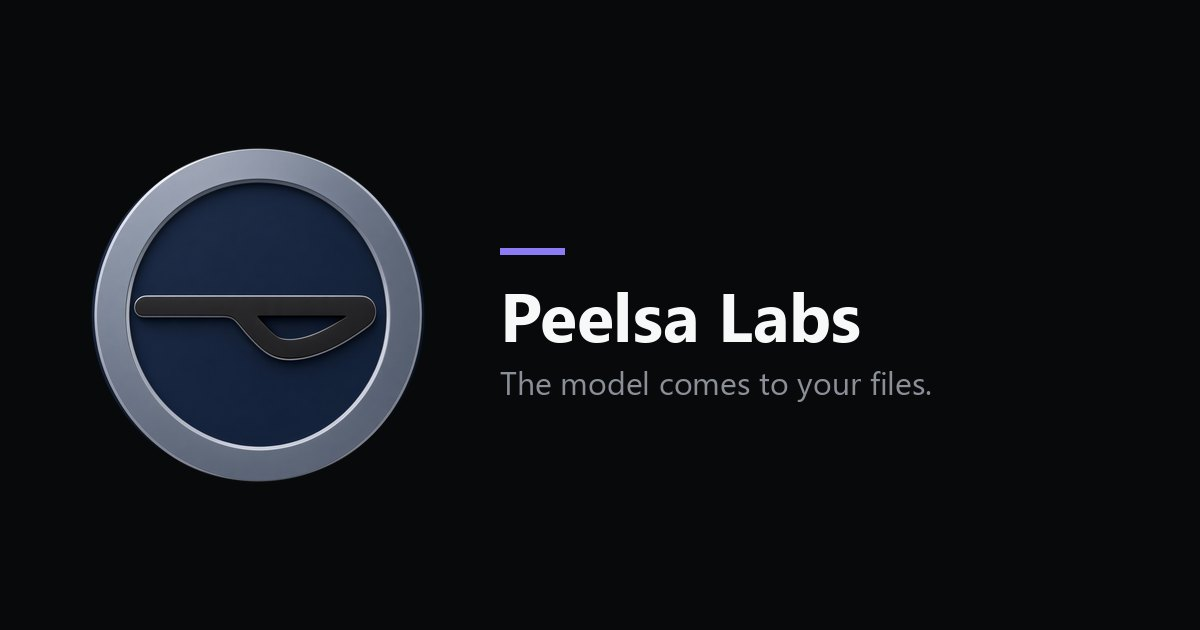
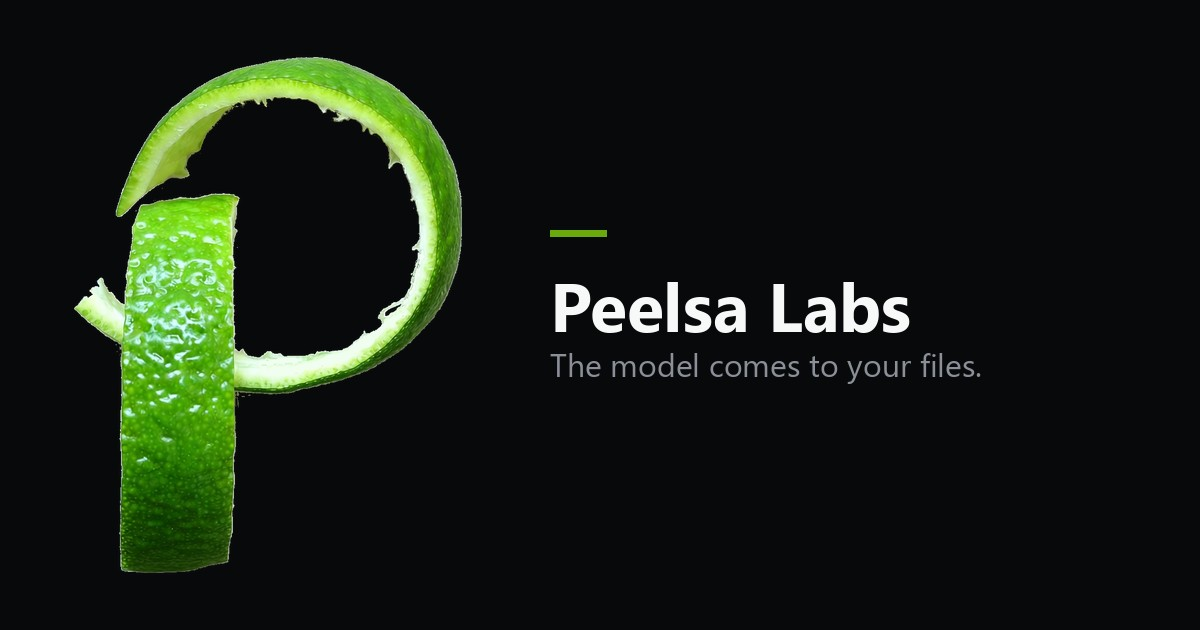
Ship the lime peel mark and lime accent.

Changed region(s): [[0.0617, 0.0905, 0.8325, 0.9349]]

diff --git a/css/styles.css b/css/styles.css
@@ -38,11 +38,12 @@
   --text: #f7f8f8;
   --muted: #8a8f98;
   --muted-2: #6b7079;
-  --accent: #8b7cf6;
-  --accent-hover: #9b8ef8;
-  --accent-soft: rgba(139, 124, 246, 0.15);
-  --accent-ring: rgba(139, 124, 246, 0.4);
-  --success: #3dd68c;
+  --accent: #6AAA0C;
+  --accent-hover: #7CC214;
+  --accent-soft: rgba(106, 170, 12, 0.16);
+  --accent-ring: rgba(198, 242, 90, 0.45);
+  --accent-ink: #102004;
+  --success: #C6F25A;
   --radius: 8px;
   --radius-lg: 12px;
   --shell: 1120px;
@@ -111,7 +112,7 @@ ol {
   top: 0;
   z-index: 200;
   background: var(--accent);
-  color: #fff;
+  color: var(--accent-ink);
   padding: 8px 14px;
   border-radius: var(--radius);
 }
@@ -123,7 +124,7 @@ ol {
 
 /* ——— Preview banner ——— */
 .preview-banner {
-  background: linear-gradient(90deg, rgba(139, 124, 246, 0.18), rgba(139, 124, 246, 0.06));
+  background: linear-gradient(90deg, rgba(106, 170, 12, 0.18), rgba(106, 170, 12, 0.06));
   border-bottom: 1px solid var(--border);
   font-size: 12px;
   color: var(--muted);
@@ -166,8 +167,8 @@ ol {
 }
 
 .logo-mark {
-  width: 28px;
-  height: 28px;
+  width: 40px;
+  height: 40px;
   object-fit: contain;
   display: block;
   flex-shrink: 0;
@@ -240,8 +241,8 @@ ol {
 
 .btn-primary {
   background: var(--accent);
-  color: #fff;
-  box-shadow: 0 0 0 1px var(--accent-ring), 0 8px 24px rgba(139, 124, 246, 0.2);
+  color: var(--accent-ink);
+  box-shadow: 0 0 0 1px var(--accent-ring), 0 8px 24px rgba(106, 170, 12, 0.2);
 }
 
 .btn-primary:hover {
@@ -302,7 +303,7 @@ ol {
   position: absolute;
   inset: -20% 10% auto;
   height: 420px;
-  background: radial-gradient(ellipse at center, rgba(139, 124, 246, 0.16), transparent 65%);
+  background: radial-gradient(ellipse at center, rgba(106, 170, 12, 0.16), transparent 65%);
   pointer-events: none;
 }
 
@@ -321,7 +322,7 @@ ol {
   font-weight: 500;
   color: var(--accent);
   background: var(--accent-soft);
-  border: 1px solid rgba(139, 124, 246, 0.25);
+  border: 1px solid rgba(106, 170, 12, 0.25);
   padding: 5px 12px;
   border-radius: 100px;
   margin-bottom: 28px;
@@ -532,7 +533,7 @@ ol {
   text-transform: uppercase;
   color: var(--accent);
   background: var(--accent-soft);
-  border: 1px solid rgba(139, 124, 246, 0.25);
+  border: 1px solid rgba(106, 170, 12, 0.25);
   padding: 3px 8px;
   border-radius: 100px;
   margin-bottom: 14px;
@@ -650,7 +651,7 @@ tr:last-child td {
   border: 1px solid var(--border);
   border-radius: var(--radius-lg);
   background:
-    radial-gradient(ellipse at right top, rgba(139, 124, 246, 0.14), transparent 55%),
+    radial-gradient(ellipse at right top, rgba(106, 170, 12, 0.14), transparent 55%),
     var(--surface);
 }
 
@@ -796,7 +797,7 @@ tr:last-child td {
   text-transform: uppercase;
   color: var(--accent);
   background: var(--accent-soft);
-  border: 1px solid rgba(139, 124, 246, 0.25);
+  border: 1px solid rgba(106, 170, 12, 0.25);
   padding: 4px 10px;
   border-radius: 100px;
 }
@@ -896,8 +897,8 @@ tr:last-child td {
 }
 
 .footer-brand .logo-mark {
-  width: 24px;
-  height: 24px;
+  width: 32px;
+  height: 32px;
 }
 
 .hw-grid {
@@ -1195,7 +1196,7 @@ main {
 .callout-accent {
   margin: 24px 0 0;
   padding: 16px 18px;
-  border: 1px solid rgba(139, 124, 246, 0.3);
+  border: 1px solid rgba(106, 170, 12, 0.3);
   border-radius: var(--radius);
   background: var(--accent-soft);
   color: var(--text);
@@ -1243,7 +1244,7 @@ main {
 }
 
 .door-card:hover {
-  border-color: rgba(139, 124, 246, 0.35);
+  border-color: rgba(106, 170, 12, 0.35);
   background: var(--surface-hover);
 }
 
@@ -1473,7 +1474,7 @@ main {
   border: 1px solid var(--border);
   border-radius: var(--radius-lg);
   background:
-    radial-gradient(ellipse at 50% 0%, rgba(139, 124, 246, 0.12), transparent 55%),
+    radial-gradient(ellipse at 50% 0%, rgba(106, 170, 12, 0.12), transparent 55%),
     var(--surface);
   padding: 36px 28px;
   text-align: center;

diff --git a/security.html b/security.html
@@ -34,7 +34,7 @@
     <div class="shell">
       <nav class="nav" aria-label="Primary">
         <a class="logo" href="index.html">
-          <img class="logo-mark" src="img/peelsa.png?v=seo" alt="" width="28" height="28" />
+          <img class="logo-mark" src="img/peelsa.png?v=lime" alt="" width="40" height="40" />
           <span data-brand>Peelsa Labs</span>
         </a>
         <button class="nav-toggle" type="button" aria-label="Open menu" aria-expanded="false"><span></span><span></span><span></span></button>
@@ -119,7 +119,7 @@
       <div class="footer-grid">
         <div>
           <div class="footer-brand">
-            <img class="logo-mark" src="img/peelsa.png?v=seo" alt="" width="24" height="24" />
+            <img class="logo-mark" src="img/peelsa.png?v=lime" alt="" width="32" height="32" />
             <span data-brand>Peelsa Labs</span>
           </div>
           <p class="footer-desc">On-prem inference. Walls at retrieval. Logs you can keep.</p>

diff --git a/how-it-works.html b/how-it-works.html
@@ -35,7 +35,7 @@
     <div class="shell">
       <nav class="nav" aria-label="Primary">
         <a class="logo" href="index.html">
-          <img class="logo-mark" src="img/peelsa.png?v=seo" alt="" width="28" height="28" />
+          <img class="logo-mark" src="img/peelsa.png?v=lime" alt="" width="40" height="40" />
           <span data-brand>Peelsa Labs</span>
         </a>
         <button class="nav-toggle" type="button" aria-label="Open menu" aria-expanded="false"><span></span><span></span><span></span></button>
@@ -139,7 +139,7 @@
       <div class="footer-grid">
         <div>
           <div class="footer-brand">
-            <img class="logo-mark" src="img/peelsa.png?v=seo" alt="" width="24" height="24" />
+            <img class="logo-mark" src="img/peelsa.png?v=lime" alt="" width="32" height="32" />
             <span data-brand>Peelsa Labs</span>
           </div>
           <p class="footer-desc">One stack. Two doors. Files never leave the building.</p>

diff --git a/hardware.html b/hardware.html
@@ -34,7 +34,7 @@
     <div class="shell">
       <nav class="nav" aria-label="Primary">
         <a class="logo" href="index.html">
-          <img class="logo-mark" src="img/peelsa.png?v=seo" alt="" width="28" height="28" />
+          <img class="logo-mark" src="img/peelsa.png?v=lime" alt="" width="40" height="40" />
           <span data-brand>Peelsa Labs</span>
         </a>
         <button class="nav-toggle" type="button" aria-label="Open menu" aria-expanded="false"><span></span><span></span><span></span></button>
@@ -139,7 +139,7 @@
       <div class="footer-grid">
         <div>
           <div class="footer-brand">
-            <img class="logo-mark" src="img/peelsa.png?v=seo" alt="" width="24" height="24" />
+            <img class="logo-mark" src="img/peelsa.png?v=lime" alt="" width="32" height="32" />
             <span data-brand>Peelsa Labs</span>
           </div>
           <p class="footer-desc">Leased on-prem appliance. We maintain. You use.</p>

diff --git a/pricing.html b/pricing.html
@@ -34,7 +34,7 @@
     <div class="shell">
       <nav class="nav" aria-label="Primary">
         <a class="logo" href="index.html">
-          <img class="logo-mark" src="img/peelsa.png?v=seo" alt="" width="28" height="28" />
+          <img class="logo-mark" src="img/peelsa.png?v=lime" alt="" width="40" height="40" />
           <span data-brand>Peelsa Labs</span>
         </a>
         <button class="nav-toggle" type="button" aria-label="Open menu" aria-expanded="false"><span></span><span></span><span></span></button>
@@ -136,7 +136,7 @@
       <div class="footer-grid">
         <div>
           <div class="footer-brand">
-            <img class="logo-mark" src="img/peelsa.png?v=seo" alt="" width="24" height="24" />
+            <img class="logo-mark" src="img/peelsa.png?v=lime" alt="" width="32" height="32" />
             <span data-brand>Peelsa Labs</span>
           </div>
           <p class="footer-desc">Lease + per-seat. OpEx for plants and firms.</p>

diff --git a/plants.html b/plants.html
@@ -35,7 +35,7 @@
     <div class="shell">
       <nav class="nav" aria-label="Primary">
         <a class="logo" href="index.html">
-          <img class="logo-mark" src="img/peelsa.png?v=seo" alt="" width="28" height="28" />
+          <img class="logo-mark" src="img/peelsa.png?v=lime" alt="" width="40" height="40" />
           <span data-brand>Peelsa Labs</span>
         </a>
         <button class="nav-toggle" type="button" aria-label="Open menu" aria-expanded="false">
@@ -195,7 +195,7 @@
       <div class="footer-grid">
         <div>
           <div class="footer-brand">
-            <img class="logo-mark" src="img/peelsa.png?v=seo" alt="" width="24" height="24" />
+            <img class="logo-mark" src="img/peelsa.png?v=lime" alt="" width="32" height="32" />
             <span data-brand>Peelsa Labs</span>
           </div>
           <p class="footer-desc">On-site Super Intelligence for technical OEM sales teams. Files never leave the building.</p>

diff --git a/contact.html b/contact.html
@@ -34,7 +34,7 @@
     <div class="shell">
       <nav class="nav" aria-label="Primary">
         <a class="logo" href="index.html">
-          <img class="logo-mark" src="img/peelsa.png?v=seo" alt="" width="28" height="28" />
+          <img class="logo-mark" src="img/peelsa.png?v=lime" alt="" width="40" height="40" />
           <span data-brand>Peelsa Labs</span>
         </a>
         <button class="nav-toggle" type="button" aria-label="Open menu" aria-expanded="false"><span></span><span></span><span></span></button>
@@ -129,7 +129,7 @@
       <div class="footer-grid">
         <div>
           <div class="footer-brand">
-            <img class="logo-mark" src="img/peelsa.png?v=seo" alt="" width="24" height="24" />
+            <img class="logo-mark" src="img/peelsa.png?v=lime" alt="" width="32" height="32" />
             <span data-brand>Peelsa Labs</span>
           </div>
           <p class="footer-desc">One domain. Two doors. Same parent.</p>

diff --git a/legal.html b/legal.html
@@ -35,7 +35,7 @@
     <div class="shell">
       <nav class="nav" aria-label="Primary">
         <a class="logo" href="index.html">
-          <img class="logo-mark" src="img/peelsa.png?v=seo" alt="" width="28" height="28" />
+          <img class="logo-mark" src="img/peelsa.png?v=lime" alt="" width="40" height="40" />
           <span data-brand>Peelsa Labs</span>
         </a>
         <button class="nav-toggle" type="button" aria-label="Open menu" aria-expanded="false">
@@ -154,7 +154,7 @@
       <div class="footer-grid">
         <div>
           <div class="footer-brand">
-            <img class="logo-mark" src="img/peelsa.png?v=seo" alt="" width="24" height="24" />
+            <img class="logo-mark" src="img/peelsa.png?v=lime" alt="" width="32" height="32" />
             <span data-brand>Peelsa Labs</span>
           </div>
           <p class="footer-desc">On-site Super Intelligence for confidential work. Privilege by architecture.</p>

diff --git a/about.html b/about.html
@@ -34,7 +34,7 @@
     <div class="shell">
       <nav class="nav" aria-label="Primary">
         <a class="logo" href="index.html">
-          <img class="logo-mark" src="img/peelsa.png?v=seo" alt="" width="28" height="28" />
+          <img class="logo-mark" src="img/peelsa.png?v=lime" alt="" width="40" height="40" />
           <span data-brand>Peelsa Labs</span>
         </a>
         <button class="nav-toggle" type="button" aria-label="Open menu" aria-expanded="false"><span></span><span></span><span></span></button>
@@ -133,7 +133,7 @@
       <div class="footer-grid">
         <div>
           <div class="footer-brand">
-            <img class="logo-mark" src="img/peelsa.png?v=seo" alt="" width="24" height="24" />
+            <img class="logo-mark" src="img/peelsa.png?v=lime" alt="" width="32" height="32" />
             <span data-brand>Peelsa Labs</span>
           </div>
           <p class="footer-desc">Illinois / Central Time.</p>

diff --git a/404.html b/404.html
@@ -18,7 +18,7 @@
     <div class="shell">
       <nav class="nav" aria-label="Primary">
         <a class="logo" href="index.html">
-          <img class="logo-mark" src="img/peelsa.png?v=seo" alt="" width="28" height="28" />
+          <img class="logo-mark" src="img/peelsa.png?v=lime" alt="" width="40" height="40" />
           <span data-brand>Peelsa Labs</span>
         </a>
         <button class="nav-toggle" type="button" aria-label="Open menu" aria-expanded="false"><span></span><span></span><span></span></button>
@@ -55,7 +55,7 @@
       <div class="footer-grid">
         <div>
           <div class="footer-brand">
-            <img class="logo-mark" src="img/peelsa.png?v=seo" alt="" width="24" height="24" />
+            <img class="logo-mark" src="img/peelsa.png?v=lime" alt="" width="32" height="32" />
             <span data-brand>Peelsa Labs</span>
           </div>
           <p class="footer-desc">Illinois / Central Time.</p>

diff --git a/index.html b/index.html
@@ -64,7 +64,7 @@
     <div class="shell">
       <nav class="nav" aria-label="Primary">
         <a class="logo" href="index.html">
-          <img class="logo-mark" src="img/peelsa.png?v=seo" alt="" width="28" height="28" />
+          <img class="logo-mark" src="img/peelsa.png?v=lime" alt="" width="40" height="40" />
           <span data-brand>Peelsa Labs</span>
         </a>
         <button class="nav-toggle" type="button" aria-label="Open menu" aria-expanded="false">
@@ -161,7 +161,7 @@
       <div class="footer-grid">
         <div>
           <div class="footer-brand">
-            <img class="logo-mark" src="img/peelsa.png?v=seo" alt="" width="24" height="24" />
+            <img class="logo-mark" src="img/peelsa.png?v=lime" alt="" width="32" height="32" />
             <span data-brand>Peelsa Labs</span>
           </div>
           <p class="footer-desc">The model comes to your files. The files never leave the building.</p>

diff --git a/privacy.html b/privacy.html
@@ -29,7 +29,7 @@
 </head>
 <body>
   <header class="site-header"><div class="shell"><nav class="nav">
-    <a class="logo" href="index.html"><img class="logo-mark" src="img/peelsa.png?v=seo" alt="" width="28" height="28" /><span data-brand>Peelsa Labs</span></a>
+    <a class="logo" href="index.html"><img class="logo-mark" src="img/peelsa.png?v=lime" alt="" width="40" height="40" /><span data-brand>Peelsa Labs</span></a>
     <div class="nav-links"><a href="plants.html">OEMs</a><a href="legal.html">Legal</a><a href="contact.html">Contact</a></div>
   </nav></div></header>
   <main id="main">
